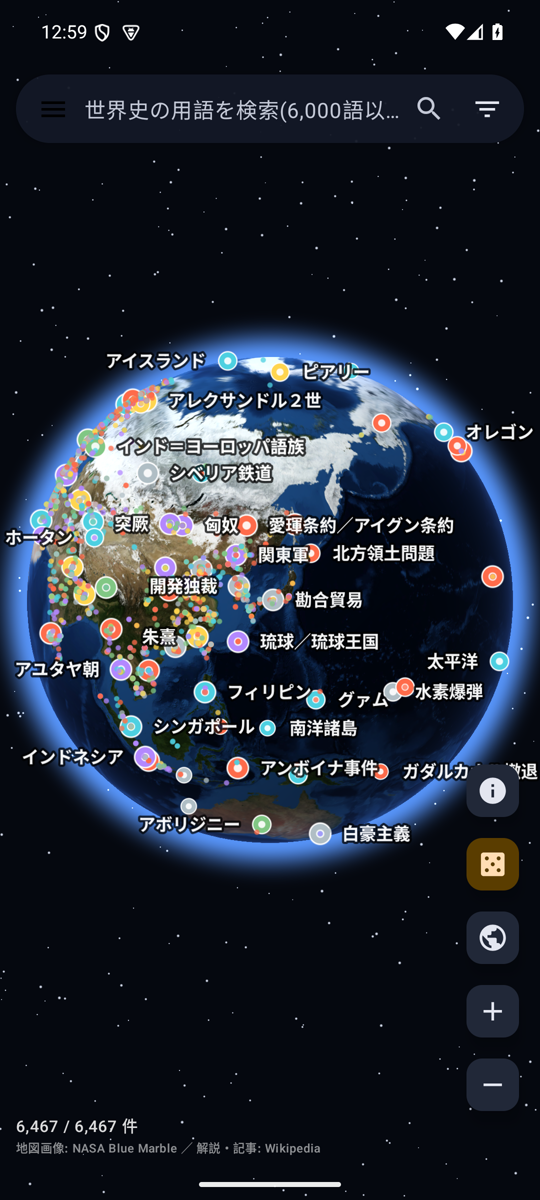
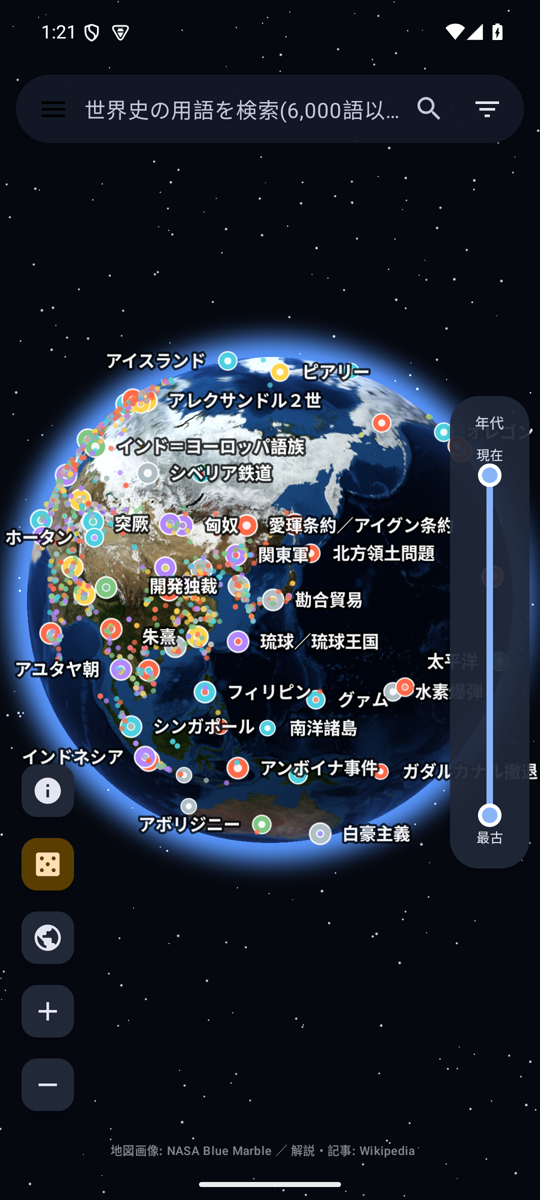
README を年代縦バーの追加に合わせて更新(全体表示の画像と特徴の記述)

diff --git a/README.md b/README.md
@@ -17,7 +17,7 @@ Google Earth 風の 3D 地球儀の上に、世界史の主要な用語(約 6,50
 - OpenGL ES による自前の地球儀レンダラ(NASA Blue Marble を 4 段階のタイルで同梱、オフラインで動作)
 - ドラッグ回転・慣性・ピンチズーム・ダブルタップ拡大(Google Earth 風の「指の下の地点を保つ」操作)
 - 6,000 語以上のピンを画面上で自動間引き・ラベル配置。ズームすると同じ場所の項目を円状に展開
-- 用語検索(表記ゆれ・別名・地名・「ヴ/バ」表記に対応)、年代レンジ・分類・地域による絞り込み、時代順/五十音順の一覧
+- 用語検索(表記ゆれ・別名・地名・「ヴ/バ」表記に対応)、画面右端の縦バーによる年代の絞り込み、分類・地域による絞り込み、時代順/五十音順の一覧
 - 詳細カードから Wikipedia(モバイル版)の記事と YouTube 検索をアプリ内 WebView で表示
 
 ## データ
